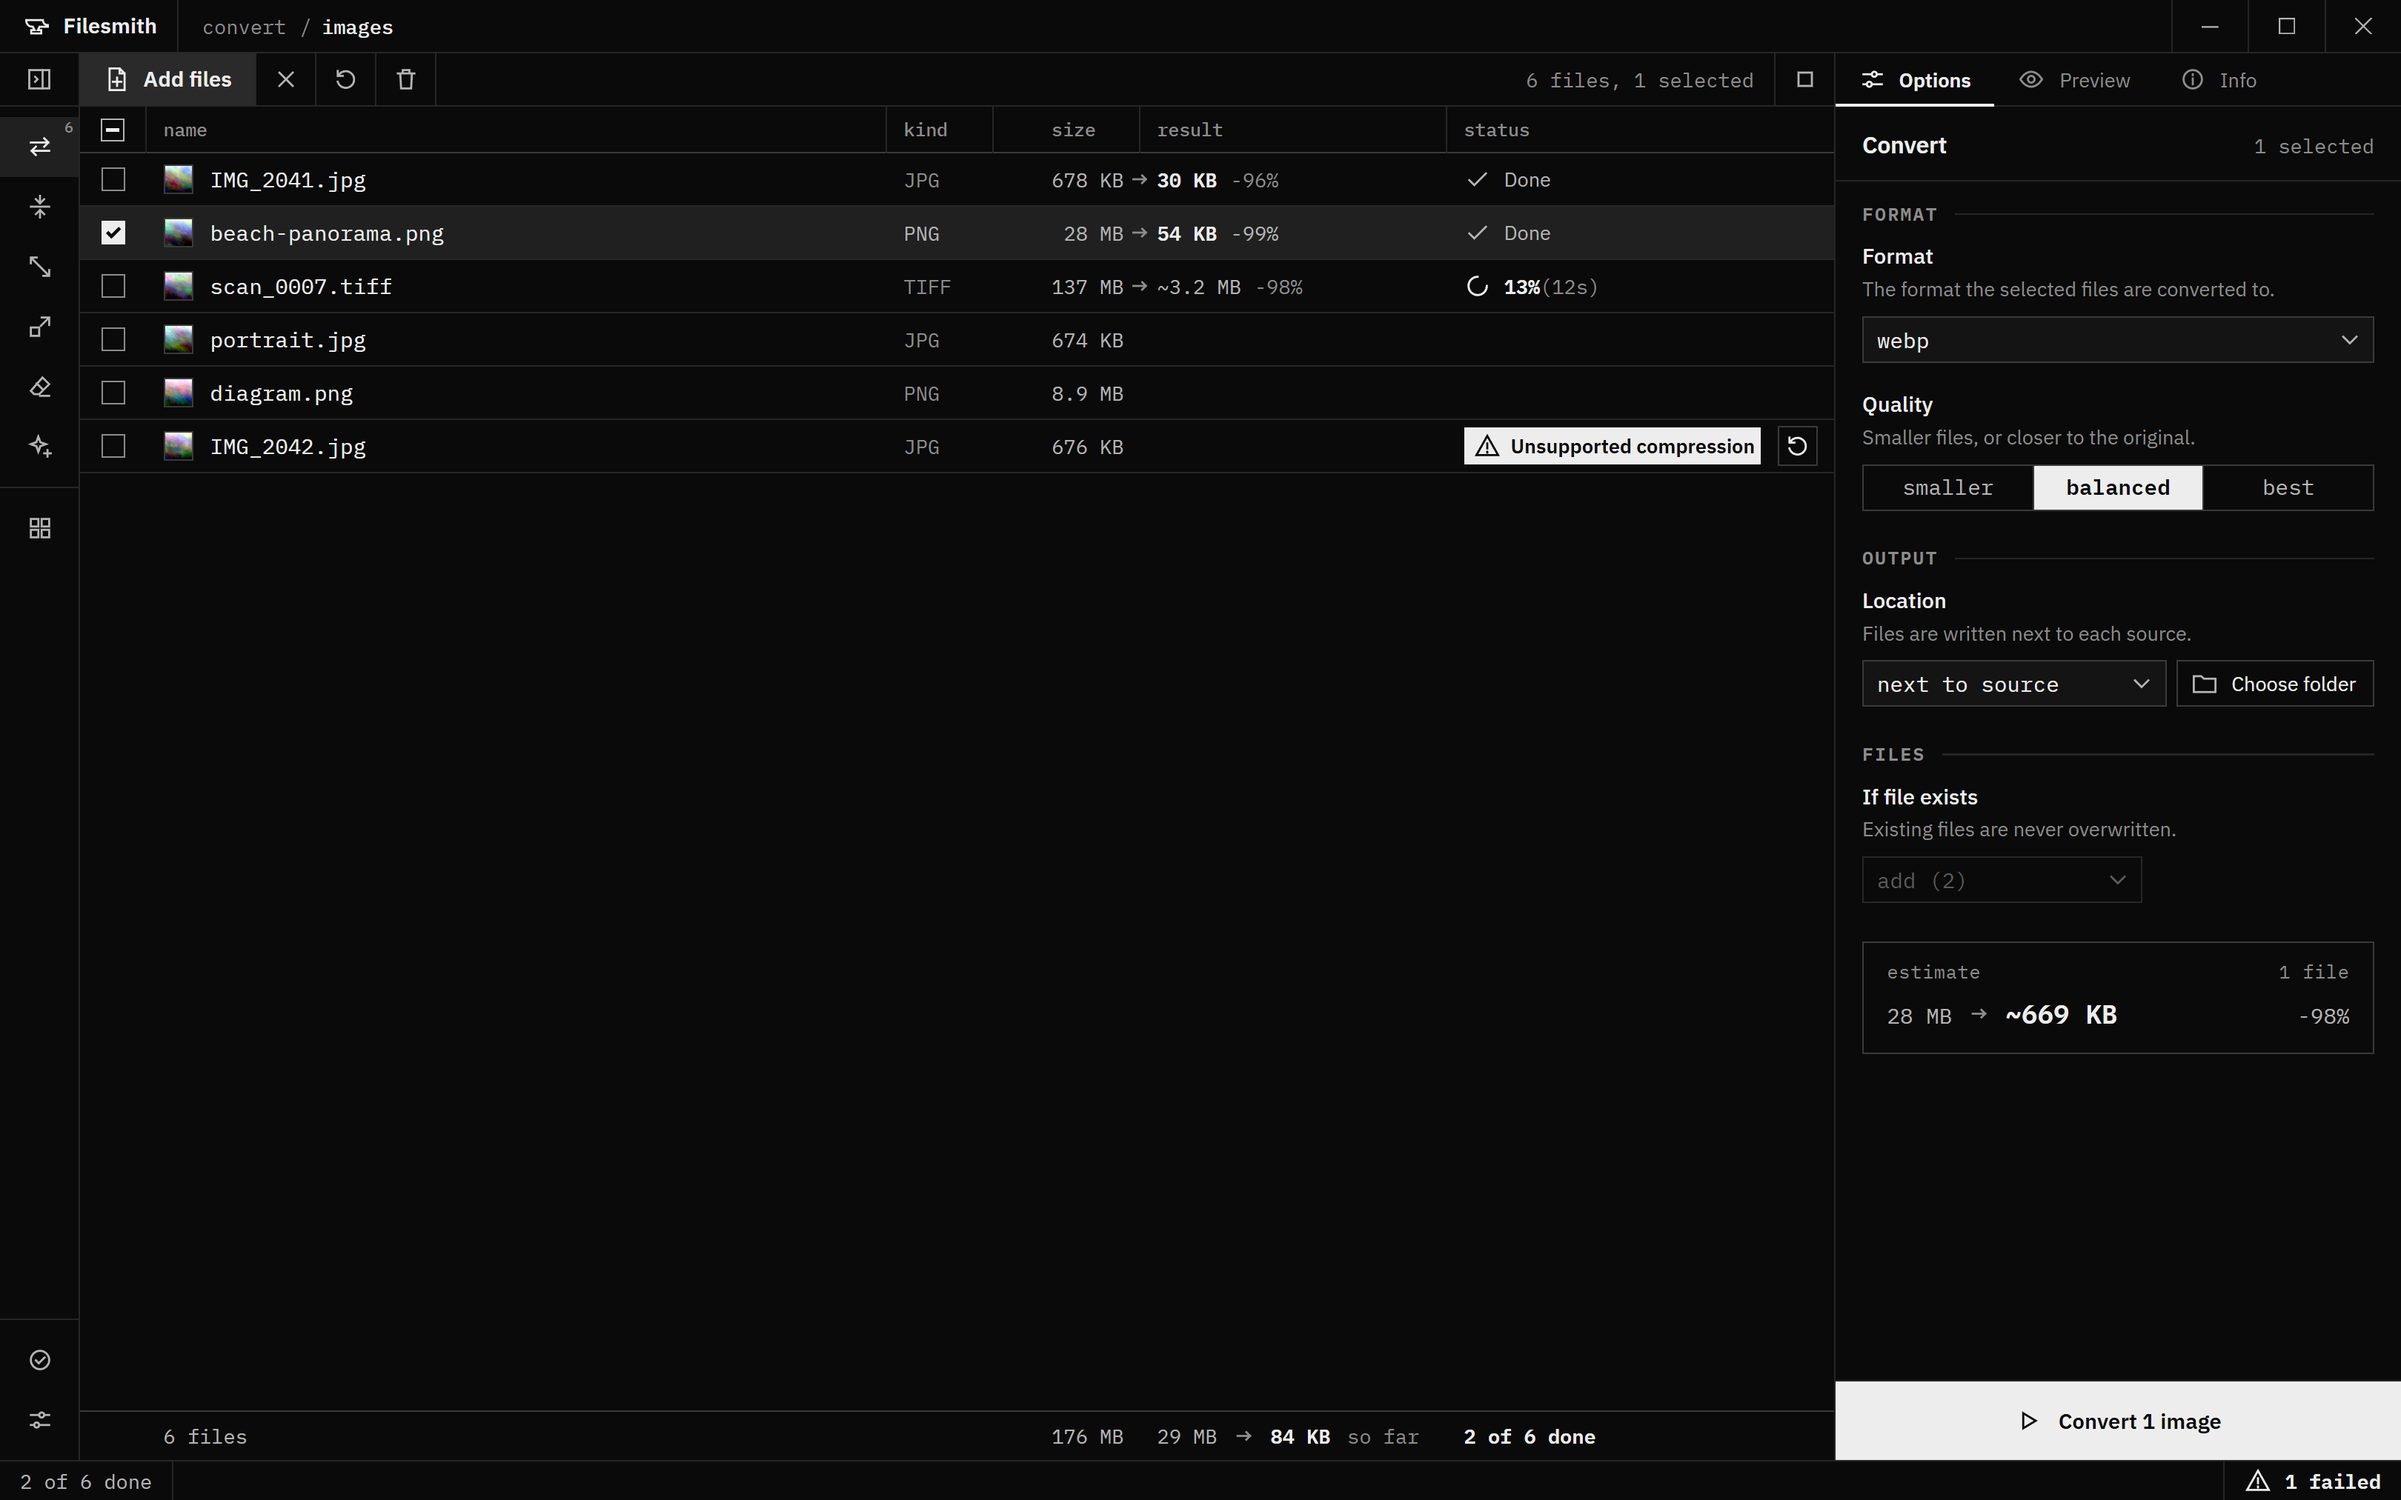
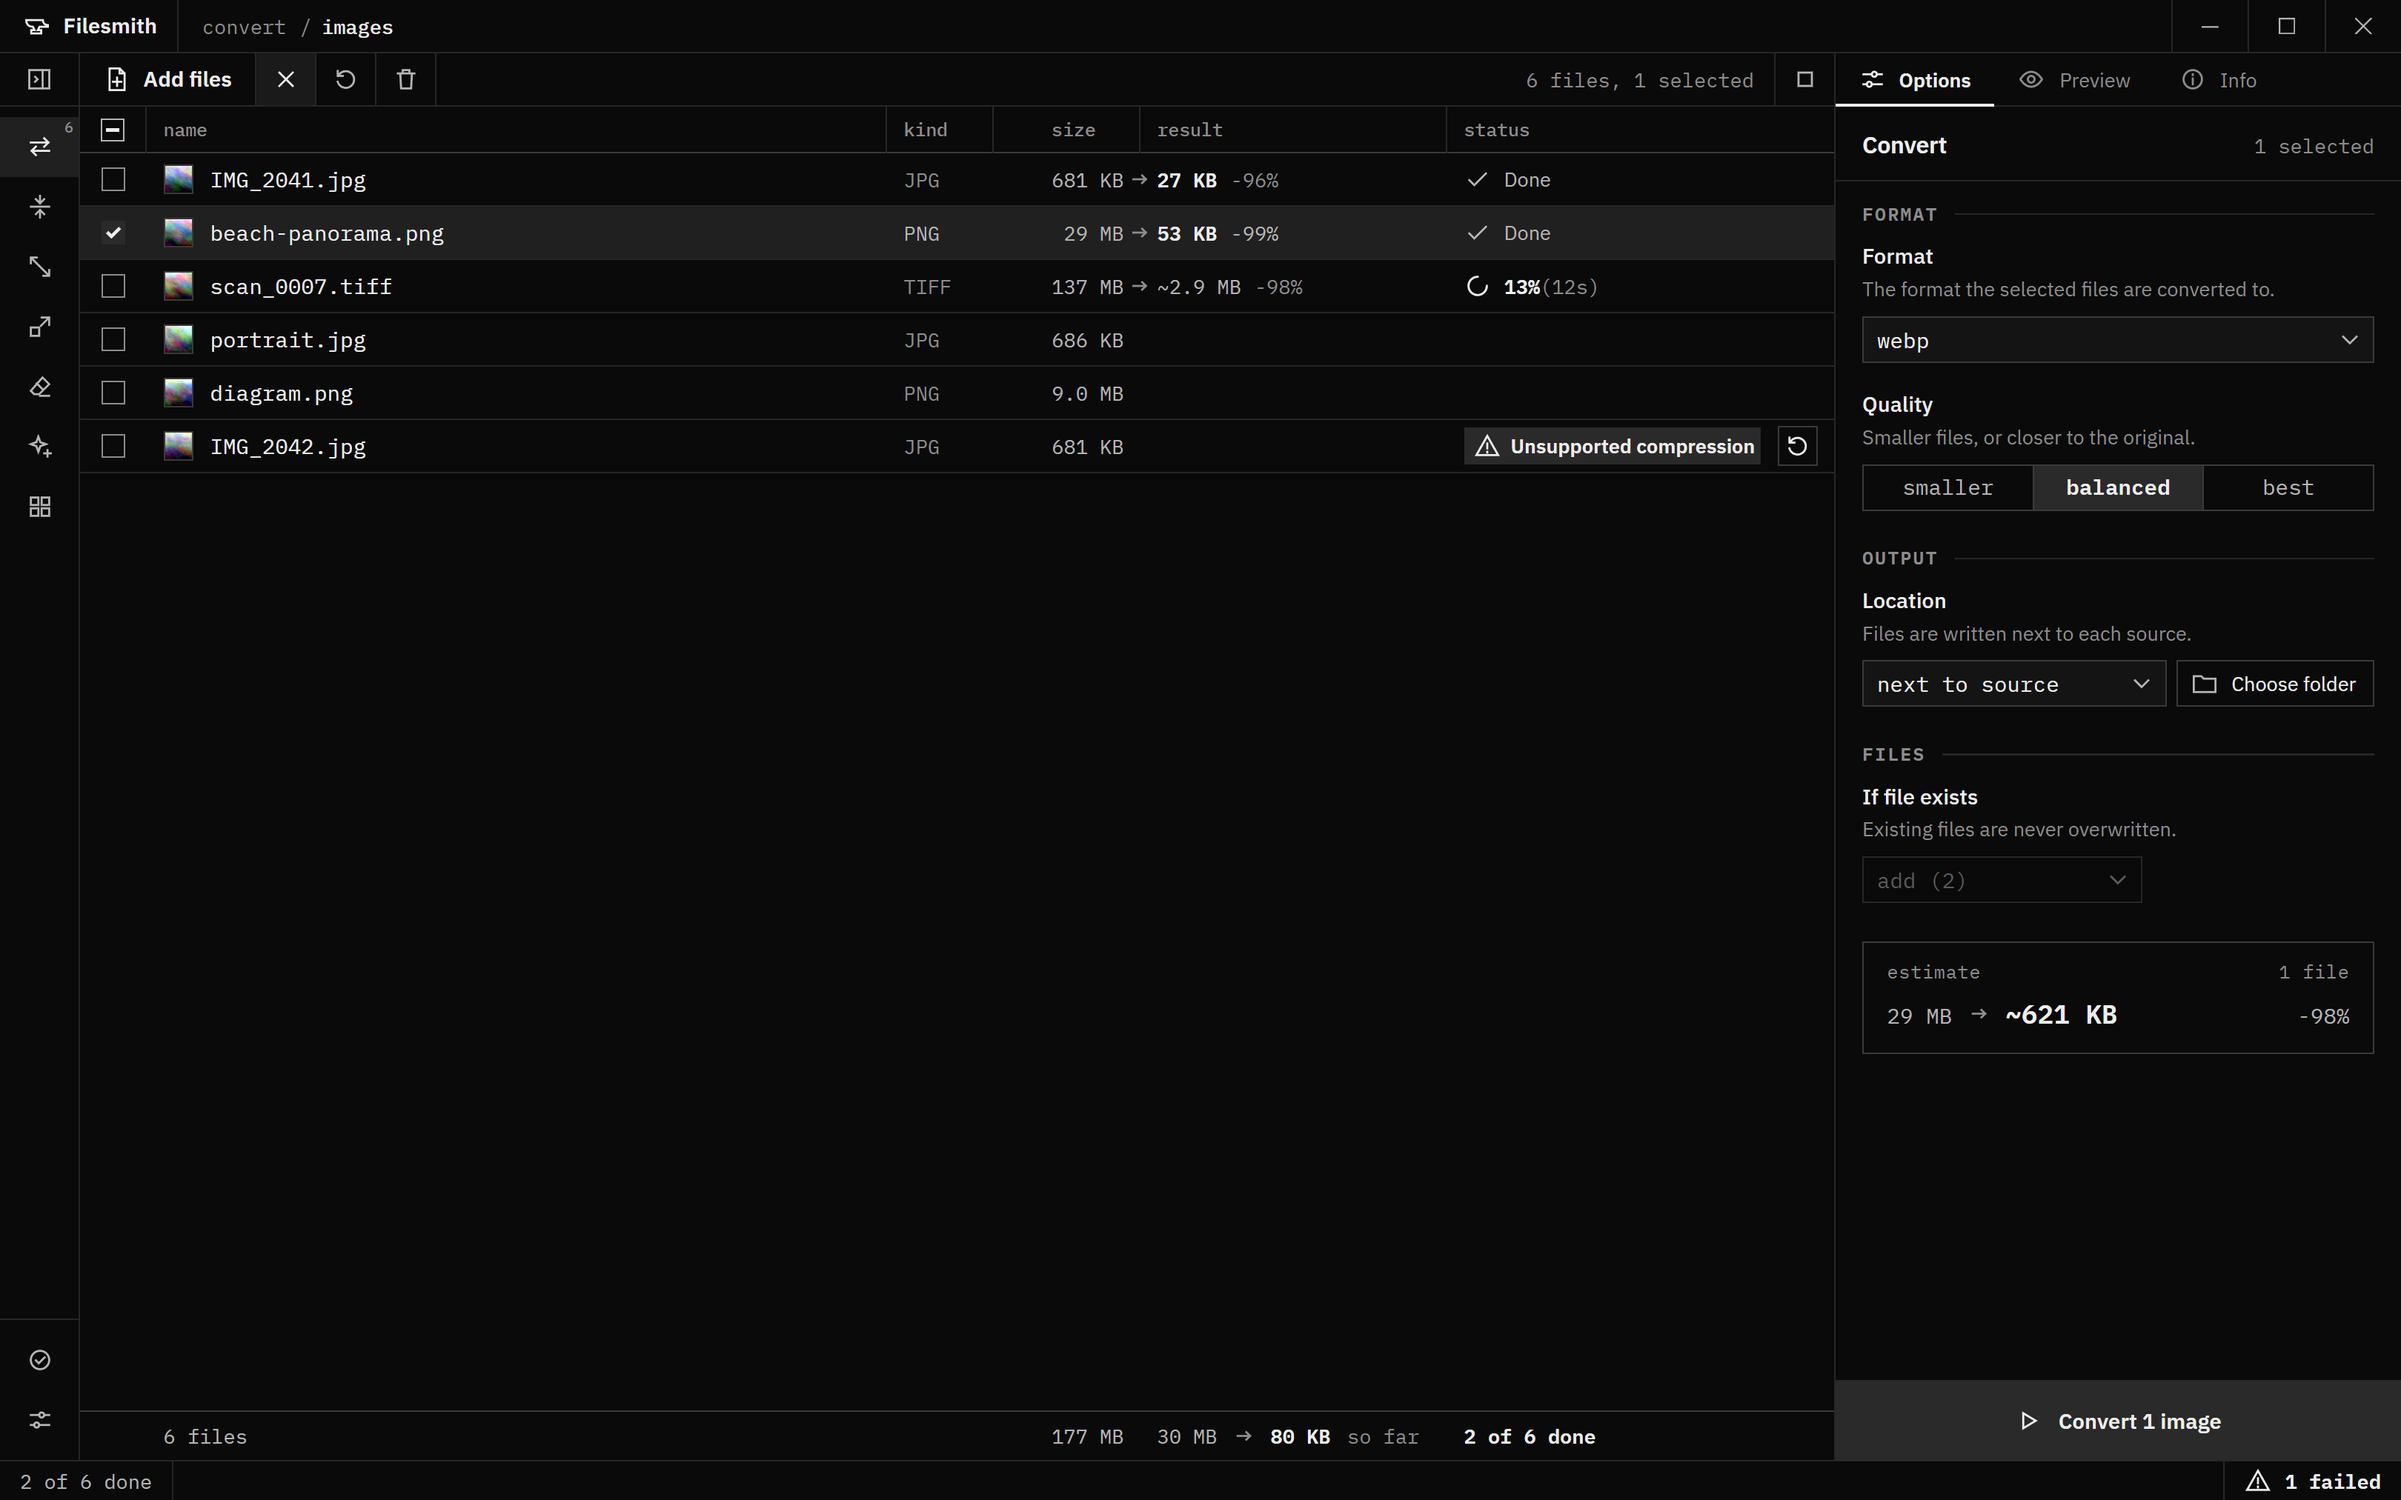
fix(ui): grey fills instead of white, rename Tools to PDF Tools, drop the rail divider

diff --git a/test/shell-model.test.ts b/test/shell-model.test.ts
@@ -22,10 +22,10 @@ describe('breadcrumb', () => {
   })
   it('makes tools a Back to Tools button inside a card', () => {
     expect(crumbsFor('tools', toolCardById('pdf-merge')!, 'doc')).toEqual([
-      { label: 'tools', action: 'tools', ariaLabel: 'Back to Tools' },
+      { label: 'pdf tools', action: 'tools', ariaLabel: 'Back to Tools' },
       { label: 'merge' }
     ])
-    expect(crumbsFor('tools', null, null)).toEqual([{ label: 'tools' }])
+    expect(crumbsFor('tools', null, null)).toEqual([{ label: 'pdf tools' }])
   })
   it('has a single segment for generate, completed and settings', () => {
     for (const t of ['generate', 'completed', 'settings'] as TabId[])

diff --git a/src/renderer/src/components/shell/crumbs.ts b/src/renderer/src/components/shell/crumbs.ts
@@ -13,10 +13,10 @@ export function crumbsFor(tab: TabId, card: ToolCard | null, group: string | nul
   if (tab === 'tools')
     return card
       ? [
-          { label: 'tools', action: 'tools', ariaLabel: 'Back to Tools' },
+          { label: 'pdf tools', action: 'tools', ariaLabel: 'Back to Tools' },
           { label: card.label.toLowerCase() }
         ]
-      : [{ label: 'tools' }]
+      : [{ label: 'pdf tools' }]
   const label = tabById(tab).label.toLowerCase()
   if (tab === 'generate' || tab === 'completed' || tab === 'settings' || !group) return [{ label }]
   return [{ label, action: 'clearSelection' }, { label: groupLabel(group).toLowerCase() }]

diff --git a/src/renderer/src/components/shell/Sidebar.tsx b/src/renderer/src/components/shell/Sidebar.tsx
@@ -52,12 +52,7 @@ export function Sidebar({
       </div>
       <div className="nav">
         {verbs.map((id) => item(tabById(id), counts[id]))}
-        {showTools && (
-          <>
-            <div className="nav-sep" role="separator" />
-            {item(tabById('tools'), counts.tools)}
-          </>
-        )}
+        {showTools && item(tabById('tools'), counts.tools)}
       </div>
       <div className="spacer" />
       <div className="nav bottom">

diff --git a/src/renderer/src/App.tsx b/src/renderer/src/App.tsx
@@ -1015,7 +1015,7 @@ export default function App(): JSX.Element {
 
   // Everything produced, across every workspace, for the Completed tab.
   const completed = collectCompleted(state.queues, (key) => {
-    if (key.startsWith('tools:')) return toolCardById(key.slice(6))?.label ?? 'Tools'
+    if (key.startsWith('tools:')) return toolCardById(key.slice(6))?.label ?? 'PDF Tools'
     return tabById(key as TabId).label
   })
 

diff --git a/test/theme-tokens.test.ts b/test/theme-tokens.test.ts
@@ -18,10 +18,10 @@ const EXPECTED: Record<string, string> = {
   fg2: '#b4b4b4',
   fg3: '#8c8c8c',
   'fg-disabled': '#5c5c5c',
-  'inv-bg': '#ededed',
-  'inv-fg': '#0a0a0a',
-  'inv-hover': '#ffffff',
-  'inv-active': '#bdbdbd',
+  'inv-bg': '#2a2a2a',
+  'inv-fg': '#ededed',
+  'inv-hover': '#3a3a3a',
+  'inv-active': '#202020',
   focus: '#ededed'
 }
 

diff --git a/src/renderer/src/theme/tokens.css b/src/renderer/src/theme/tokens.css
@@ -13,10 +13,10 @@
   --fg2: #b4b4b4;
   --fg3: #8c8c8c;
   --fg-disabled: #5c5c5c;
-  --inv-bg: #ededed;
-  --inv-fg: #0a0a0a;
-  --inv-hover: #ffffff;
-  --inv-active: #bdbdbd;
+  --inv-bg: #2a2a2a;
+  --inv-fg: #ededed;
+  --inv-hover: #3a3a3a;
+  --inv-active: #202020;
   --focus: #ededed;
   --backdrop: rgba(0, 0, 0, 0.6);
 

diff --git a/src/shared/tabs.ts b/src/shared/tabs.ts
@@ -85,7 +85,7 @@ export const TABS: Tab[] = [
     // A grid, not a workspace, until a card is picked. `tool` is unused for the
     // grid itself; each card names its own.
     id: 'tools',
-    label: 'Tools',
+    label: 'PDF Tools',
     desc: 'One-off jobs, grouped by what they act on',
     icon: 'tools',
     kinds: [],

diff --git a/src/renderer/src/theme/workbench.css b/src/renderer/src/theme/workbench.css
@@ -171,11 +171,6 @@
   color: var(--fg3);
   transition: opacity 0.12s;
 }
-.nav-sep {
-  height: 1px;
-  background: var(--line);
-  margin: 6px 0;
-}
 .side .spacer {
   flex: 1;
 }

diff --git a/src/renderer/src/theme/controls.css b/src/renderer/src/theme/controls.css
@@ -15,7 +15,7 @@
   color: var(--fg-disabled);
 }
 .primary:disabled {
-  background: var(--selected);
+  background: var(--bg-1);
   color: var(--fg-disabled);
 }
 
